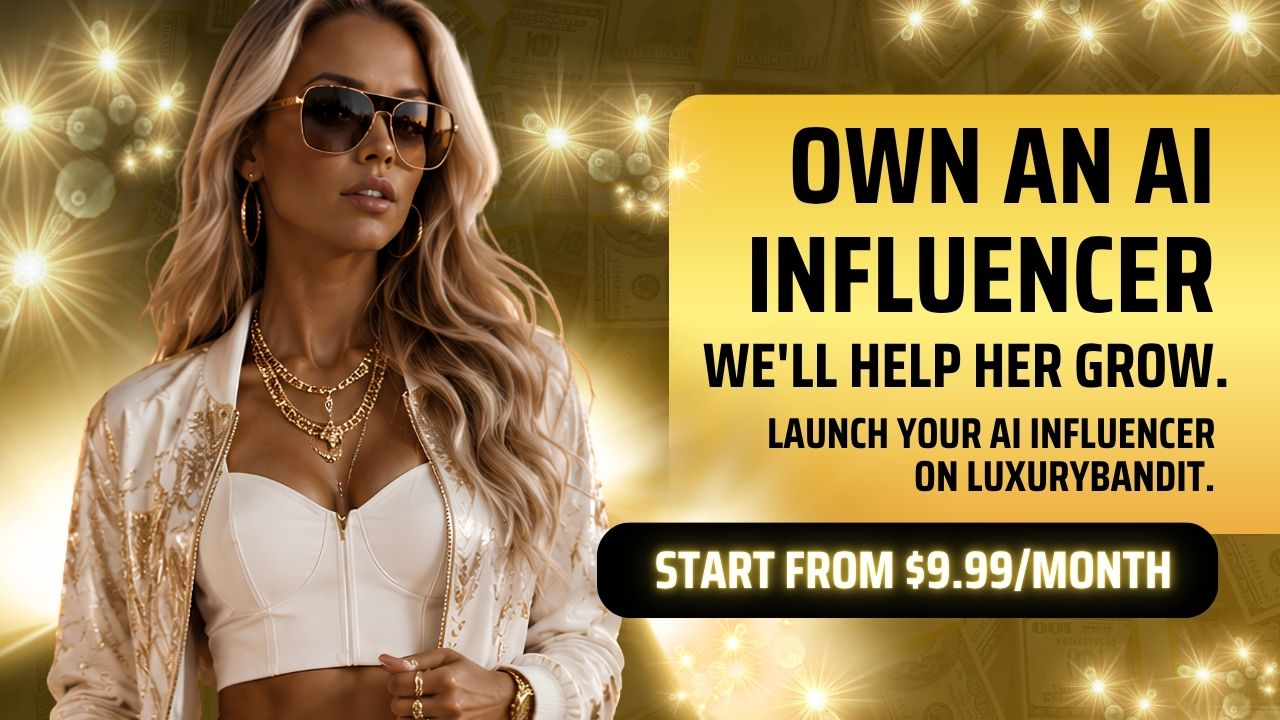
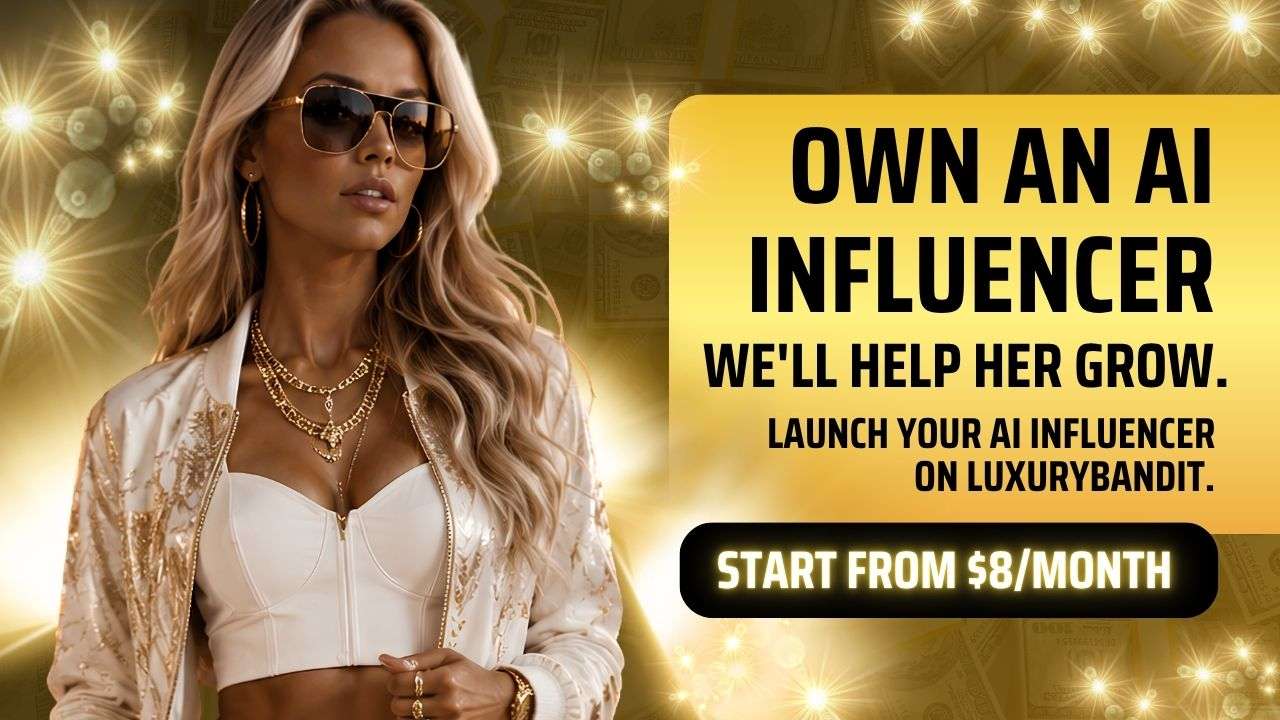
Apply form: lead with a big influencer profile card, gallery right below
Restructure the top of /curators/apply: under the title now sits a large
profile card (selected face, name, motto, Looks/Followers/Likes/Views,
Follow/Message) that mirrors her public profile and updates as she is picked.
The face gallery moves directly beneath it; the 'Whose face?' own-vs-ours
toggle drops below the gallery. Removed the now-redundant small Gina example.

Changed region(s): [[0.4688, 0.7028, 0.7812, 0.8861]]

diff --git a/app/curators/apply/page.tsx b/app/curators/apply/page.tsx
@@ -566,23 +566,44 @@ export default function CuratorApplyPage() {
         </div>}
 
 
-        {/* Step 1 — Whose face? (anti-deepfake: your own verified photos OR our AI faces). */}
-        <div className="mt-5 rounded-2xl border border-black/22 bg-black/[0.03] p-4">
-          <span className={label}>Whose face?</span>
-          <p className="mb-2 text-[12px] font-bold text-slate-600">Choose one — it&apos;s either/or, you can&apos;t pick both.</p>
-          <div className="grid grid-cols-[1fr_auto_1fr] items-stretch gap-2">
-            <button type="button" onClick={() => setImageSource("own")}
-              className={`rounded-2xl px-3 py-3 text-center text-[14px] font-black ${imageSource === "own" ? `bg-slate-800 text-white ${btn3d}` : `border-[1.5px] border-slate-400 bg-white text-slate-800 ${raise}`}`}>
-              📸 My own photos<br /><span className={`text-[12px] font-bold ${imageSource === "own" ? "text-white/75" : "text-slate-500"}`}>You become the influencer</span>
-            </button>
-            <span className="self-center text-[12px] font-black text-slate-500">OR</span>
-            <button type="button" onClick={() => setImageSource("ours")}
-              className={`rounded-2xl px-3 py-3 text-center text-[14px] font-black ${imageSource === "ours" ? `bg-slate-800 text-white ${btn3d}` : `border-[1.5px] border-slate-400 bg-white text-slate-800 ${raise}`}`}>
-              ✨ LuxuryBandit face<br /><span className={`text-[12px] font-bold ${imageSource === "ours" ? "text-white/75" : "text-slate-500"}`}>Use our AI faces</span>
-            </button>
-          </div>
-          <p className="mt-2 text-[12px] font-bold text-slate-600">To protect everyone, an influencer can only use YOUR verified photos or our images — never someone else&apos;s face.</p>
-        </div>
+        {/* Big influencer profile card — the selected face shown exactly as her public
+            profile will look (name, motto, stats, Follow/Message). Updates live as she's
+            picked from the gallery below. */}
+        {!editId && (() => {
+          const sel = avatarFaces.find(f => f.id === avatarFaceId && !f.claimed);
+          const firstFree = avatarFaces.find(f => !f.claimed);
+          const gina = roleModels.find(m => /gina/i.test(m.name || "") && m.photoUrl);
+          const heroSrc = imageSource === "own"
+            ? (photo || profileExisting[0] || gina?.photoUrl || firstFree?.imageUrl || "")
+            : (sel?.imageUrl || firstFree?.imageUrl || gina?.photoUrl || "");
+          if (!heroSrc) return null;
+          const nm = modelName.trim() || "Your influencer";
+          const tag = motto.trim() || "Your vibe, every day 💛";
+          return (
+            <div className="mt-5">
+              <div className="mx-auto max-w-[340px] overflow-hidden rounded-3xl bg-[#0d0b0a] text-white shadow-[0_16px_50px_rgba(0,0,0,0.3)]">
+                <div className="relative aspect-[4/5] w-full">
+                  {/* eslint-disable-next-line @next/next/no-img-element */}
+                  <img src={heroSrc} alt={nm} className="h-full w-full object-cover" />
+                  <div className="absolute inset-x-0 bottom-0 bg-gradient-to-t from-black/85 to-transparent p-4 pt-10">
+                    <p className="text-[20px] font-black leading-none">{nm}</p>
+                    <p className="mt-1 text-[13px] font-bold text-amber-400">{tag}</p>
+                  </div>
+                </div>
+                <div className="grid grid-cols-4 gap-1 px-3 py-3 text-center">
+                  {[["Looks", "24"], ["Followers", "345k"], ["Likes", "1.2M"], ["Views", "4.8M"]].map(([l, v]) => (
+                    <div key={l}><p className="text-[16px] font-black">{v}</p><p className="text-[9px] font-bold uppercase tracking-wide text-white/45">{l}</p></div>
+                  ))}
+                </div>
+                <div className="flex gap-2 px-3 pb-4">
+                  <span className="flex-1 rounded-full bg-white py-2 text-center text-[13px] font-black text-black">Follow</span>
+                  <span className="flex-1 rounded-full bg-white/12 py-2 text-center text-[13px] font-black">Message</span>
+                </div>
+              </div>
+              <p className="mt-2 text-center text-[11px] font-bold text-slate-400">This is how your influencer&apos;s profile will look — pick her below.</p>
+            </div>
+          );
+        })()}
 
         {imageSource === "ours" && (
           <div className="mt-5 rounded-2xl border border-black/15 bg-black/[0.04] p-4">
@@ -616,45 +637,34 @@ export default function CuratorApplyPage() {
           </div>
         )}
 
-        {/* What you get after you sign up — with an example profile (Gina). */}
+        {/* Whose face? — pick one of our AI faces above, OR become the influencer yourself. */}
+        <div className="mt-5 rounded-2xl border border-black/22 bg-black/[0.03] p-4">
+          <span className={label}>Whose face?</span>
+          <p className="mb-2 text-[12px] font-bold text-slate-600">Choose one — it&apos;s either/or, you can&apos;t pick both.</p>
+          <div className="grid grid-cols-[1fr_auto_1fr] items-stretch gap-2">
+            <button type="button" onClick={() => setImageSource("ours")}
+              className={`rounded-2xl px-3 py-3 text-center text-[14px] font-black ${imageSource === "ours" ? `bg-slate-800 text-white ${btn3d}` : `border-[1.5px] border-slate-400 bg-white text-slate-800 ${raise}`}`}>
+              ✨ LuxuryBandit face<br /><span className={`text-[12px] font-bold ${imageSource === "ours" ? "text-white/75" : "text-slate-500"}`}>Use our AI faces</span>
+            </button>
+            <span className="self-center text-[12px] font-black text-slate-500">OR</span>
+            <button type="button" onClick={() => setImageSource("own")}
+              className={`rounded-2xl px-3 py-3 text-center text-[14px] font-black ${imageSource === "own" ? `bg-slate-800 text-white ${btn3d}` : `border-[1.5px] border-slate-400 bg-white text-slate-800 ${raise}`}`}>
+              📸 My own photos<br /><span className={`text-[12px] font-bold ${imageSource === "own" ? "text-white/75" : "text-slate-500"}`}>You become the influencer</span>
+            </button>
+          </div>
+          <p className="mt-2 text-[12px] font-bold text-slate-600">To protect everyone, an influencer can only use YOUR verified photos or our images — never someone else&apos;s face.</p>
+        </div>
+
+        {/* What you get after you sign up. */}
         <div className="mt-5 rounded-2xl border border-black/12 bg-white p-4">
           <p className="text-[11px] font-black uppercase tracking-[0.14em] text-slate-500">After you sign up</p>
           <h3 className="mt-0.5 text-[16px] font-black text-slate-900">What you get</h3>
           <ul className="mt-2.5 space-y-1.5 text-[13px] font-bold text-slate-700">
             <li className="flex gap-2"><span>💎</span> We create her luxury content — fresh photos &amp; videos, every day.</li>
-            <li className="flex gap-2"><span>📱</span> She gets her own public profile — like the example below.</li>
+            <li className="flex gap-2"><span>📱</span> She gets her own public profile — like the card above.</li>
             <li className="flex gap-2"><span>💬</span> Fans discover, follow &amp; chat with her.</li>
             <li className="flex gap-2"><span>💰</span> You earn from premium fans &amp; try-ons.</li>
           </ul>
-          {(() => {
-            const g = roleModels.find(m => /gina/i.test(m.name || "") && m.photoUrl);
-            if (!g?.photoUrl) return null;
-            return (
-              <div className="mt-4">
-                <p className="mb-2 text-center text-[10px] font-black uppercase tracking-[0.14em] text-slate-400">Her profile · example</p>
-                <div className="mx-auto max-w-[260px] overflow-hidden rounded-3xl bg-[#0d0b0a] text-white shadow-[0_10px_40px_rgba(0,0,0,0.25)]">
-                  <div className="relative aspect-[4/5] w-full">
-                    {/* eslint-disable-next-line @next/next/no-img-element */}
-                    <img src={g.photoUrl} alt={g.name} className="h-full w-full object-cover" />
-                    <div className="absolute inset-x-0 bottom-0 bg-gradient-to-t from-black/85 to-transparent p-3 pt-8">
-                      <p className="text-[15px] font-black">{g.name}</p>
-                      <p className="text-[11px] font-bold text-amber-400">Elegance, every day 💛</p>
-                    </div>
-                  </div>
-                  <div className="grid grid-cols-4 gap-1 px-2 py-2.5 text-center">
-                    {[["Looks", "24"], ["Followers", "345k"], ["Likes", "1.2M"], ["Views", "4.8M"]].map(([l, v]) => (
-                      <div key={l}><p className="text-[13px] font-black">{v}</p><p className="text-[8px] font-bold uppercase tracking-wide text-white/45">{l}</p></div>
-                    ))}
-                  </div>
-                  <div className="flex gap-1.5 px-2 pb-3">
-                    <span className="flex-1 rounded-full bg-white py-1.5 text-center text-[11px] font-black text-black">Follow</span>
-                    <span className="flex-1 rounded-full bg-white/12 py-1.5 text-center text-[11px] font-black">Message</span>
-                  </div>
-                </div>
-                <p className="mt-2 text-center text-[11px] font-bold text-slate-400">This is what your influencer&apos;s profile looks like.</p>
-              </div>
-            );
-          })()}
         </div>
 
         {/* Profile photos — one main + up to 3 more; the team picks the best one. */}
